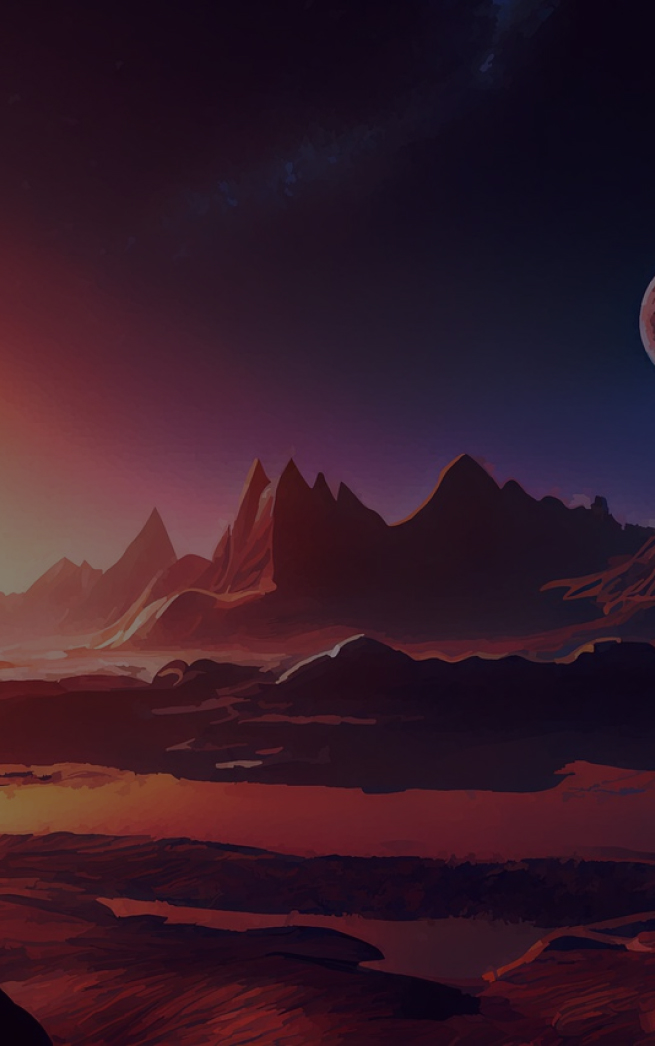
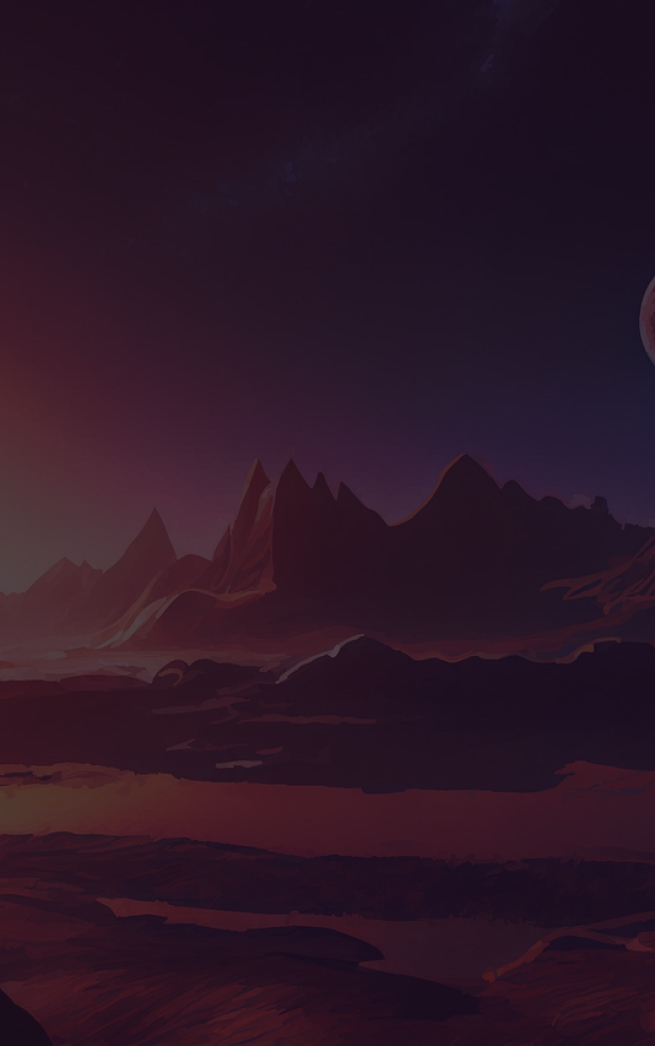
29.05

diff --git a/src/components/Player/Player.scss b/src/components/Player/Player.scss
@@ -1,4 +1,5 @@
 $placeimagewidth: 16px;
+$placeimagegap: 8px;
 
 .player {
   color: #fff;
@@ -20,7 +21,7 @@ $placeimagewidth: 16px;
 .player__places {
   display: grid;
   grid-template-columns: repeat(10, $placeimagewidth);
-  column-gap: 5px;
+  column-gap: $placeimagegap;
 }
 
 .player__place-image {
@@ -44,17 +45,17 @@ $placeimagewidth: 16px;
 
   &._has {
     opacity: 1;
+    &._used {
+      opacity: .3;
+    }
   }
 
-  &._used {
-    opacity: .2;
-  }
 }
 
 .player__invisible-part {
   display: flex;
   flex-direction: column;
-  row-gap: 5px;
+  row-gap: $placeimagegap;
   box-sizing: content-box;
 
   transition: all .4s;
@@ -66,7 +67,7 @@ $placeimagewidth: 16px;
 .player__checkboxes {
   display: flex;
   align-items: center;
-  column-gap: 5px;
+  column-gap: $placeimagegap;
 }
 
 .player__checkboxes-title {

diff --git a/src/App.scss b/src/App.scss
@@ -11,8 +11,6 @@
 
 body {
   background: center/cover url(~images/back.jpg) no-repeat;
-  background-blend-mode: color-burn;
-  background-color: rgba(44, 9, 198, 0.598);
   font-family: Troika;
   font-size: 20px;
   line-height: 1;
